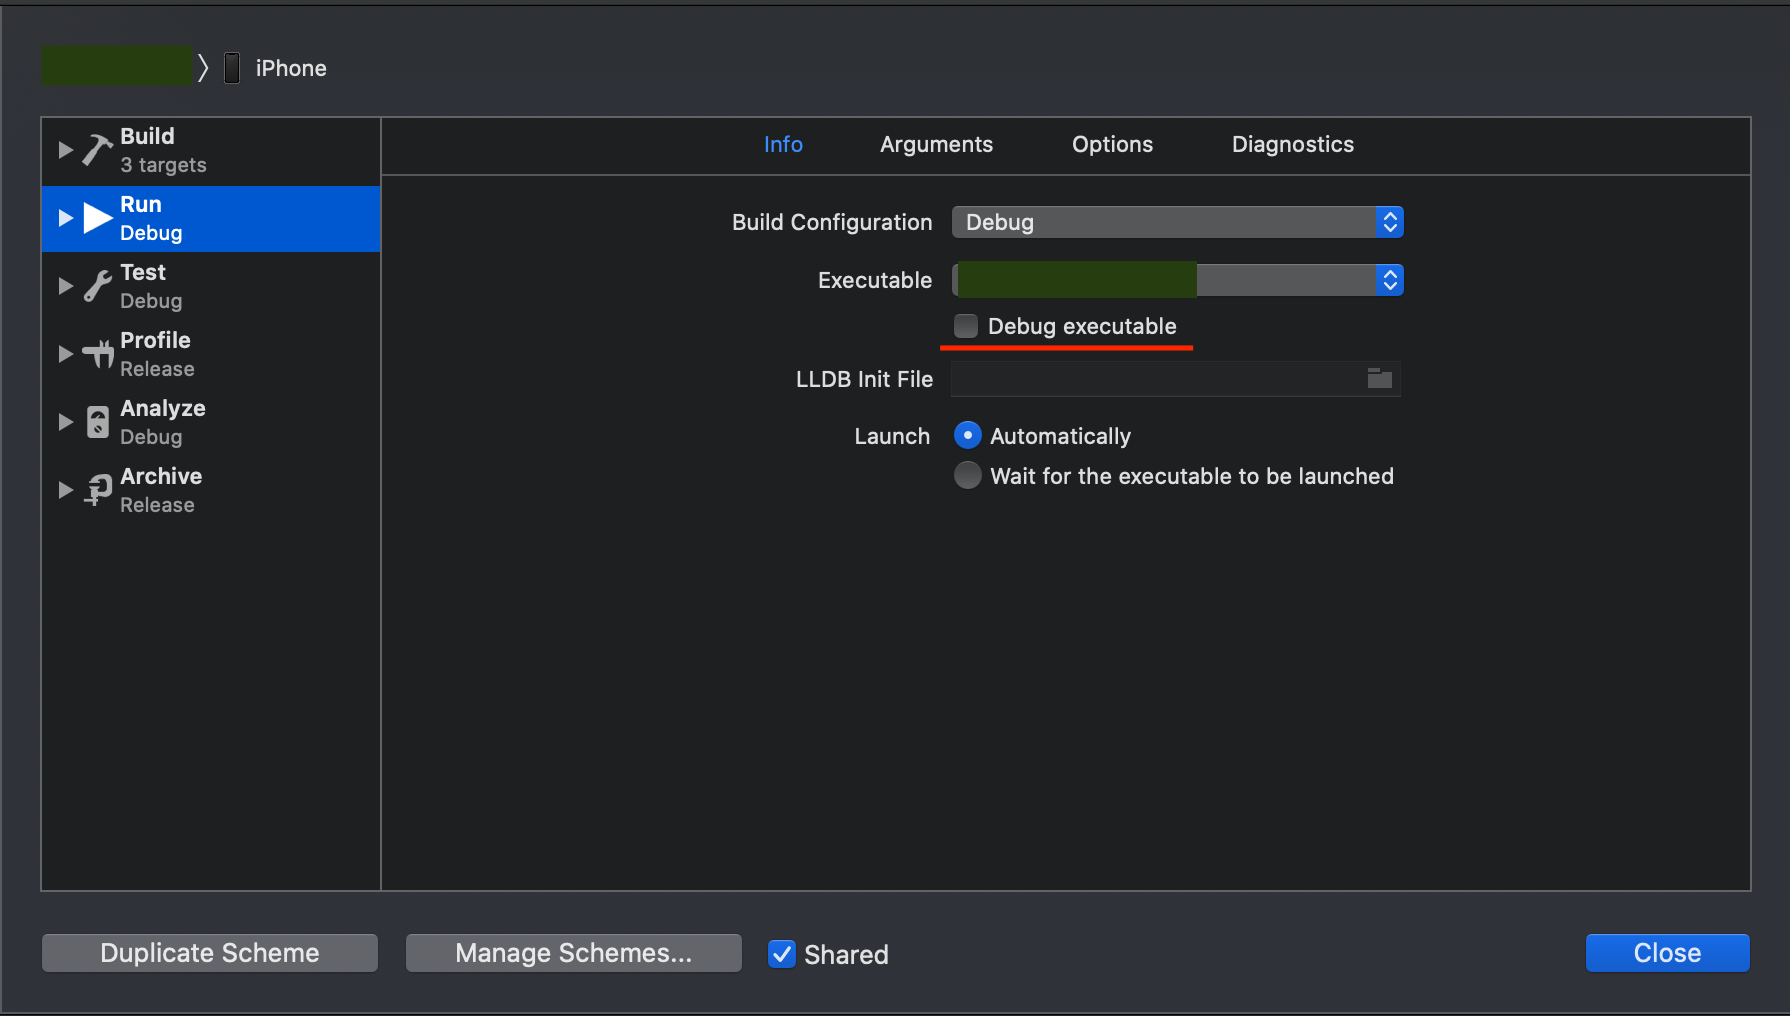
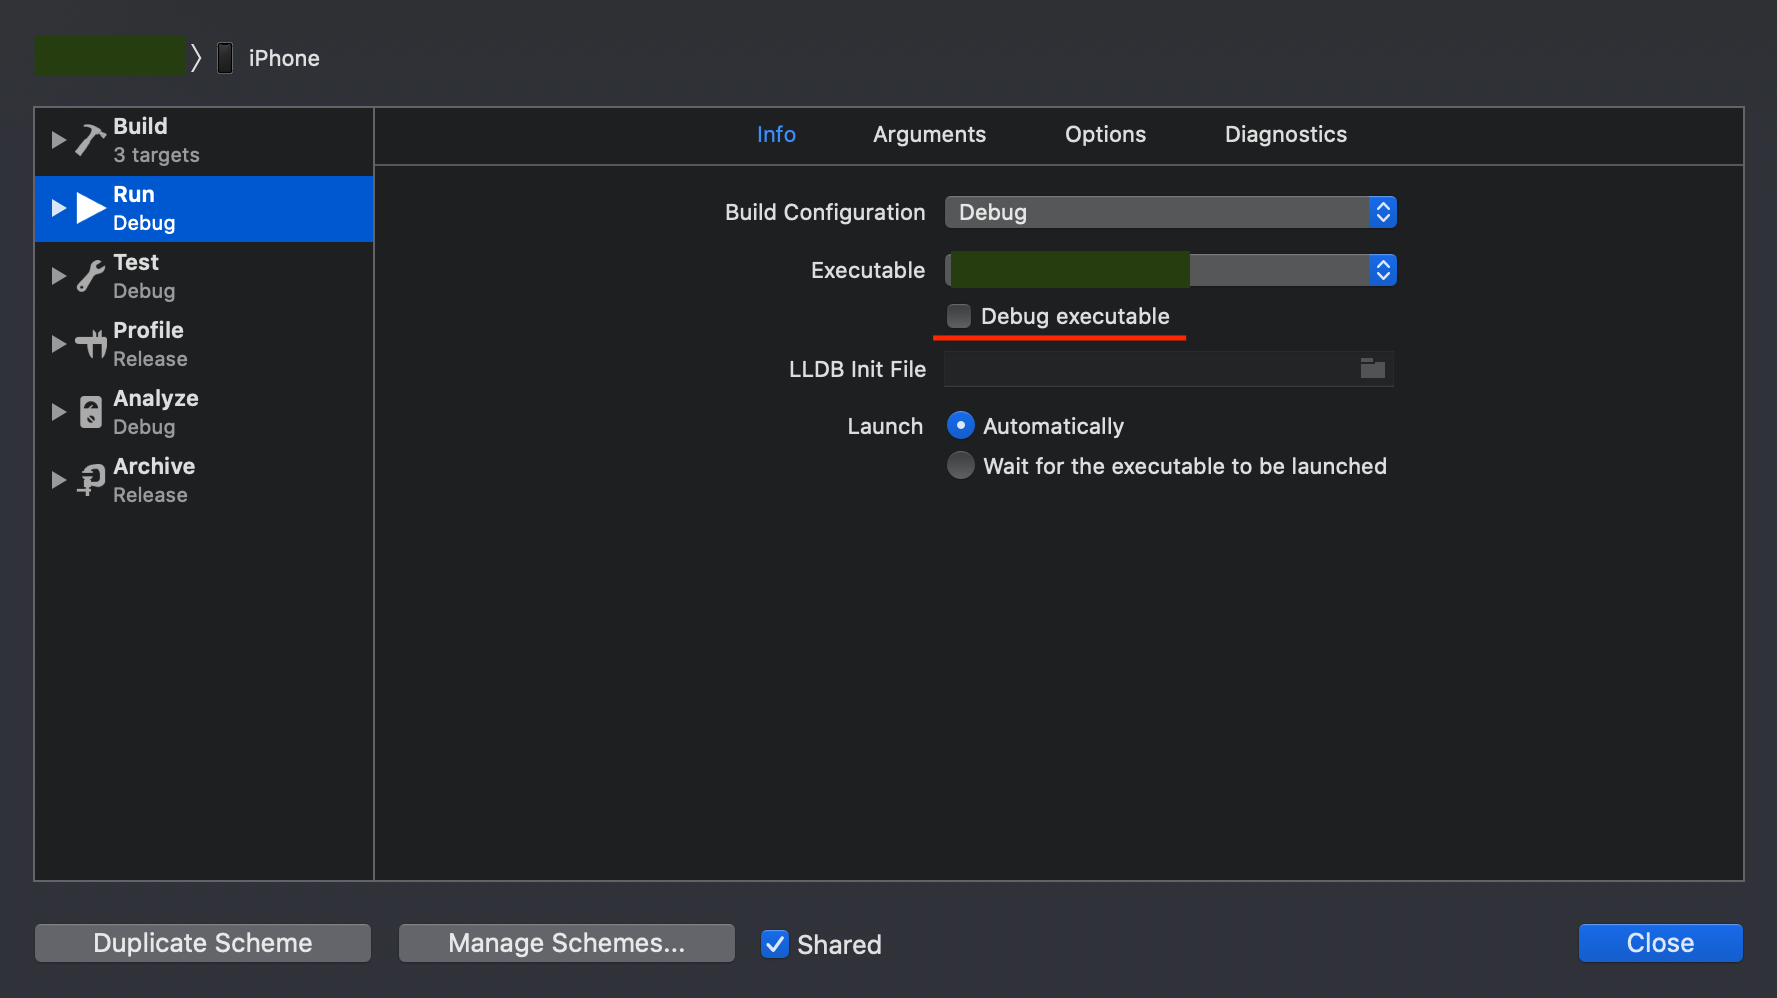
Reduce image sizes

Changed region(s): [[0.0, 0.0311, 0.9904, 0.9629], [0.0, 0.994, 1.0, 1.0]]

diff --git a/_includes/header.html b/_includes/header.html
@@ -10,7 +10,7 @@
     <!-- <a class="site-title" rel="author" href="{{ "/" | relative_url }}">{{ site.title | escape }}</a> -->
 
     <a class="site-title" rel="author" href="{{ "/" | relative_url }}"><img class="avatar"
-        src="/static/media/photo_square_for_circle_small.jpg" alt="Marina Gornostaeva"></a>
+        src="/static/media/photo_square_for_circle_tiny.jpg" alt="Marina Gornostaeva"></a>
 
     {%- endif -%}
 

diff --git a/_posts/2021-10-19-debugging-on-latest-ios-with-older-xcode.md b/_posts/2021-10-19-debugging-on-latest-ios-with-older-xcode.md
@@ -113,7 +113,7 @@ At any point of testing the app, we can attach the debugger
 by going to menu option `Debug > Attach to Process` and picking the app's process.
 The app name should appear under "Likely targets". It might take a couple of seconds to connect. 
 
-![App name shows under Likely Targets debug menu](/assets/posts/debugging-on-latest-ios-with-older-xcode/debugger_likely_targets.png)
+![App name shows under Likely Targets debug menu](/assets/posts/debugging-on-latest-ios-with-older-xcode/debugger_likely_targets.jpg)
 
 It will say `already being debugged` next to the process name once it's been attached successfully. 
 
@@ -142,7 +142,7 @@ Variables are private by default to prevent leaking sensitive data via logs.
 
 Device logs can be examined with the possibility to filter by many parameters such as app name, log level, and many more:
 
-![Console app with various log filters](/assets/posts/debugging-on-latest-ios-with-older-xcode/console_filters2.png)
+![Console app with various log filters](/assets/posts/debugging-on-latest-ios-with-older-xcode/console_filters2.jpg)
 
 I logged my app's messages with log level `.error` because they have a distinct yellow dot next to each message, making it easier to filter out the majority of system messages.
 
